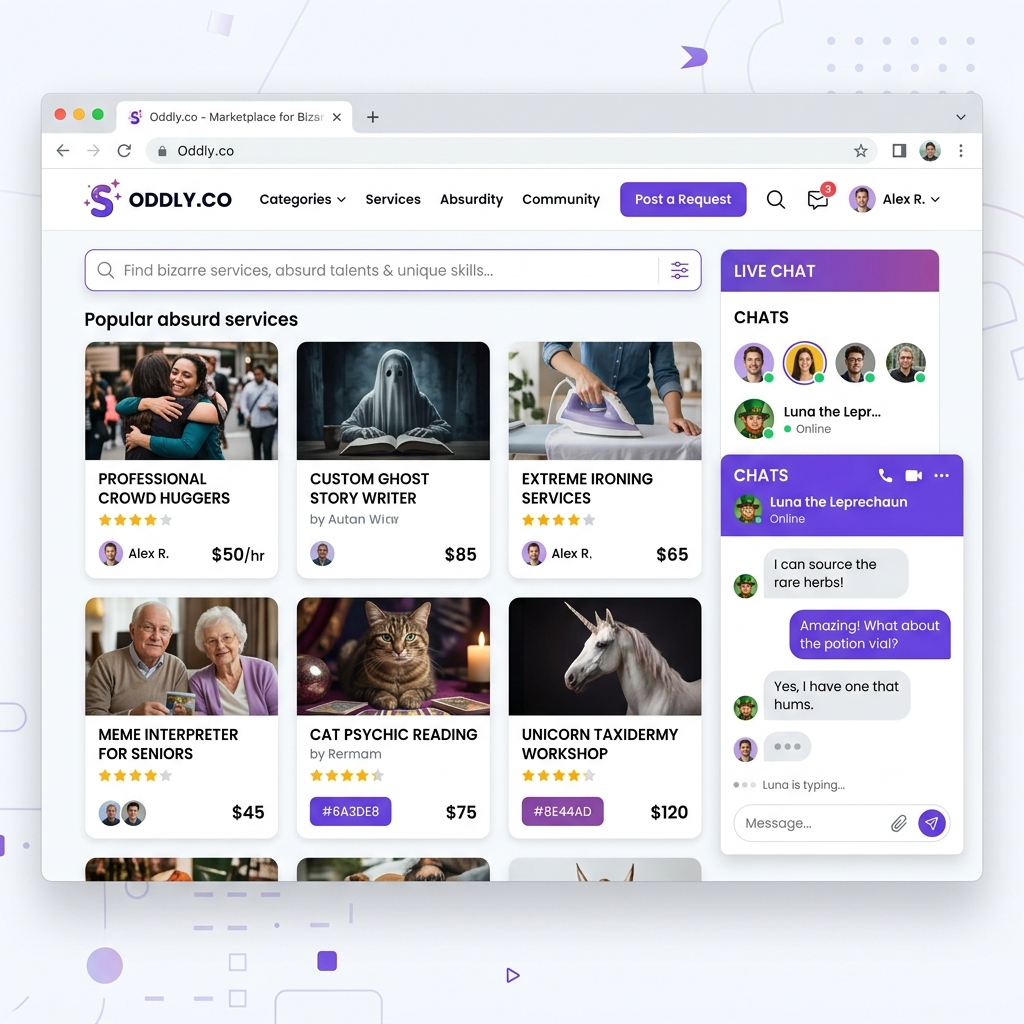
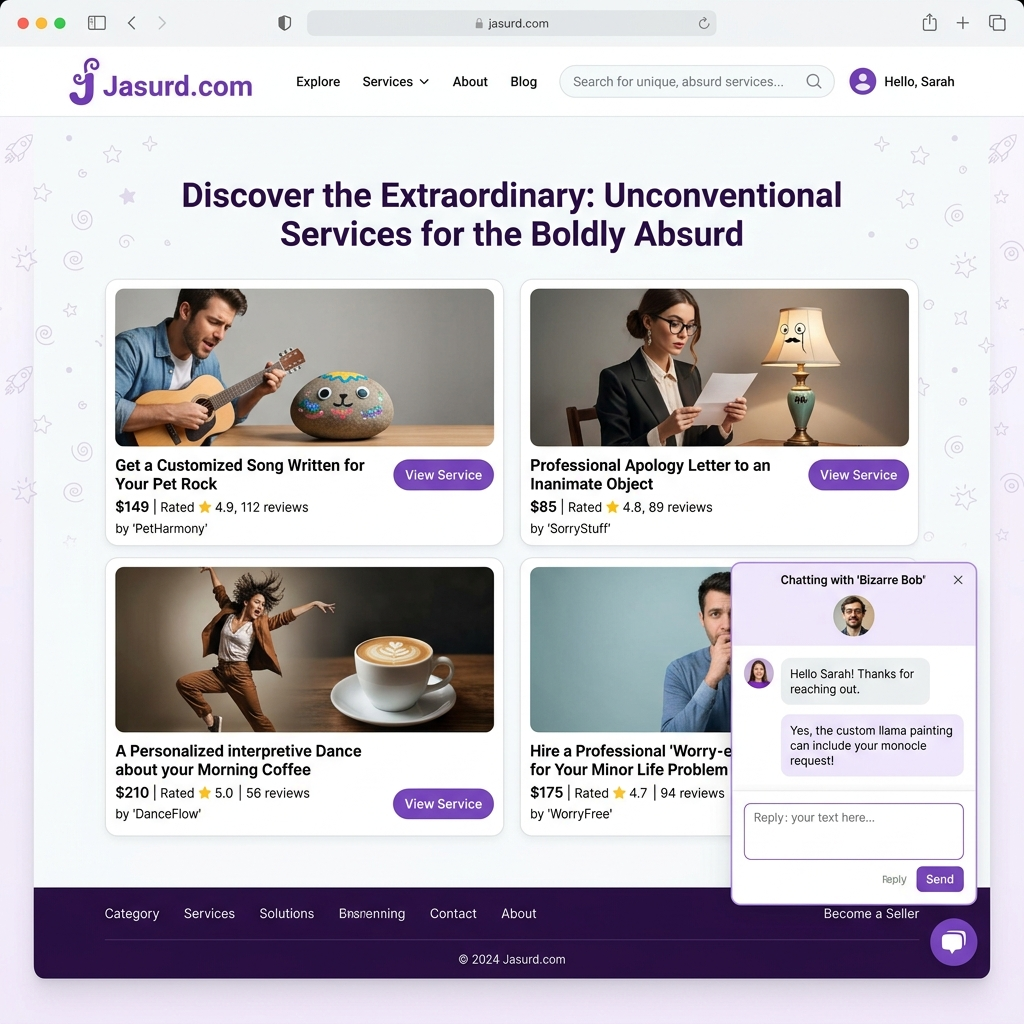
style: animate portfolio window control buttons with neon colors and sequential pulsing, and update mockup images with correct branding

diff --git a/src/components/portfolio/portfolio-grid.tsx b/src/components/portfolio/portfolio-grid.tsx
@@ -154,14 +154,14 @@ export function PortfolioGrid() {
               >
                 {/* Dashboard Window Mockup */}
                 <div className="h-56 w-full bg-[#111] rounded-t-xl border border-white/10 border-b-0 overflow-hidden relative">
-                  {/* Fake Browser Header */}
-                  <div className="h-8 bg-[#0a0a0a] border-b border-white/10 flex items-center px-4 gap-2 relative z-10">
-                     <div className="flex gap-1.5">
-                       <div className="w-2 h-2 rounded-full bg-white/20"></div>
-                       <div className="w-2 h-2 rounded-full bg-white/20"></div>
-                       <div className="w-2 h-2 rounded-full bg-white/20"></div>
-                     </div>
-                  </div>
+                   {/* Fake Browser Header */}
+                   <div className="h-8 bg-[#0a0a0a] border-b border-white/10 flex items-center px-4 gap-2 relative z-10">
+                      <div className="flex gap-1.5">
+                        <div className="w-2 h-2 rounded-full bg-red-500/80 shadow-[0_0_8px_rgba(239,68,68,0.6)] animate-pulse"></div>
+                        <div className="w-2 h-2 rounded-full bg-yellow-500/80 shadow-[0_0_8px_rgba(234,179,8,0.6)] animate-pulse" style={{ animationDelay: '200ms' }}></div>
+                        <div className="w-2 h-2 rounded-full bg-green-500/80 shadow-[0_0_8px_rgba(34,197,94,0.6)] animate-pulse" style={{ animationDelay: '400ms' }}></div>
+                      </div>
+                   </div>
                   {/* Content Area */}
                   <div className="absolute inset-x-0 bottom-0 top-8 bg-grid-white/[0.02] bg-[size:16px_16px] flex items-center justify-center pt-6 px-4">
                      <div className="absolute inset-0 bg-gradient-to-t from-[#0a0a0a] via-transparent to-transparent z-0"></div>

diff --git a/src/components/home/featured-portfolio.tsx b/src/components/home/featured-portfolio.tsx
@@ -153,9 +153,9 @@ function PortfolioCard({ project, index }: { project: any, index: number }) {
           {/* Fake Browser Header */}
           <div className="h-10 bg-[#0a0a0a] border-b border-white/10 flex items-center px-4 gap-2 relative z-10" style={{ transform: "translateZ(10px)" }}>
              <div className="flex gap-1.5">
-               <div className="w-2.5 h-2.5 rounded-full bg-white/20 shadow-sm"></div>
-               <div className="w-2.5 h-2.5 rounded-full bg-white/20 shadow-sm"></div>
-               <div className="w-2.5 h-2.5 rounded-full bg-white/20 shadow-sm"></div>
+               <div className="w-2.5 h-2.5 rounded-full bg-red-500/80 shadow-[0_0_10px_rgba(239,68,68,0.6)] animate-pulse"></div>
+               <div className="w-2.5 h-2.5 rounded-full bg-yellow-500/80 shadow-[0_0_10px_rgba(234,179,8,0.6)] animate-pulse" style={{ animationDelay: '200ms' }}></div>
+               <div className="w-2.5 h-2.5 rounded-full bg-green-500/80 shadow-[0_0_10px_rgba(34,197,94,0.6)] animate-pulse" style={{ animationDelay: '400ms' }}></div>
              </div>
              <div className="ml-4 px-3 py-1 bg-white/5 rounded-md text-[10px] font-mono text-muted-foreground border border-white/5 shadow-inner">
                {project.title.toLowerCase().replace(/\s+/g, '-')}